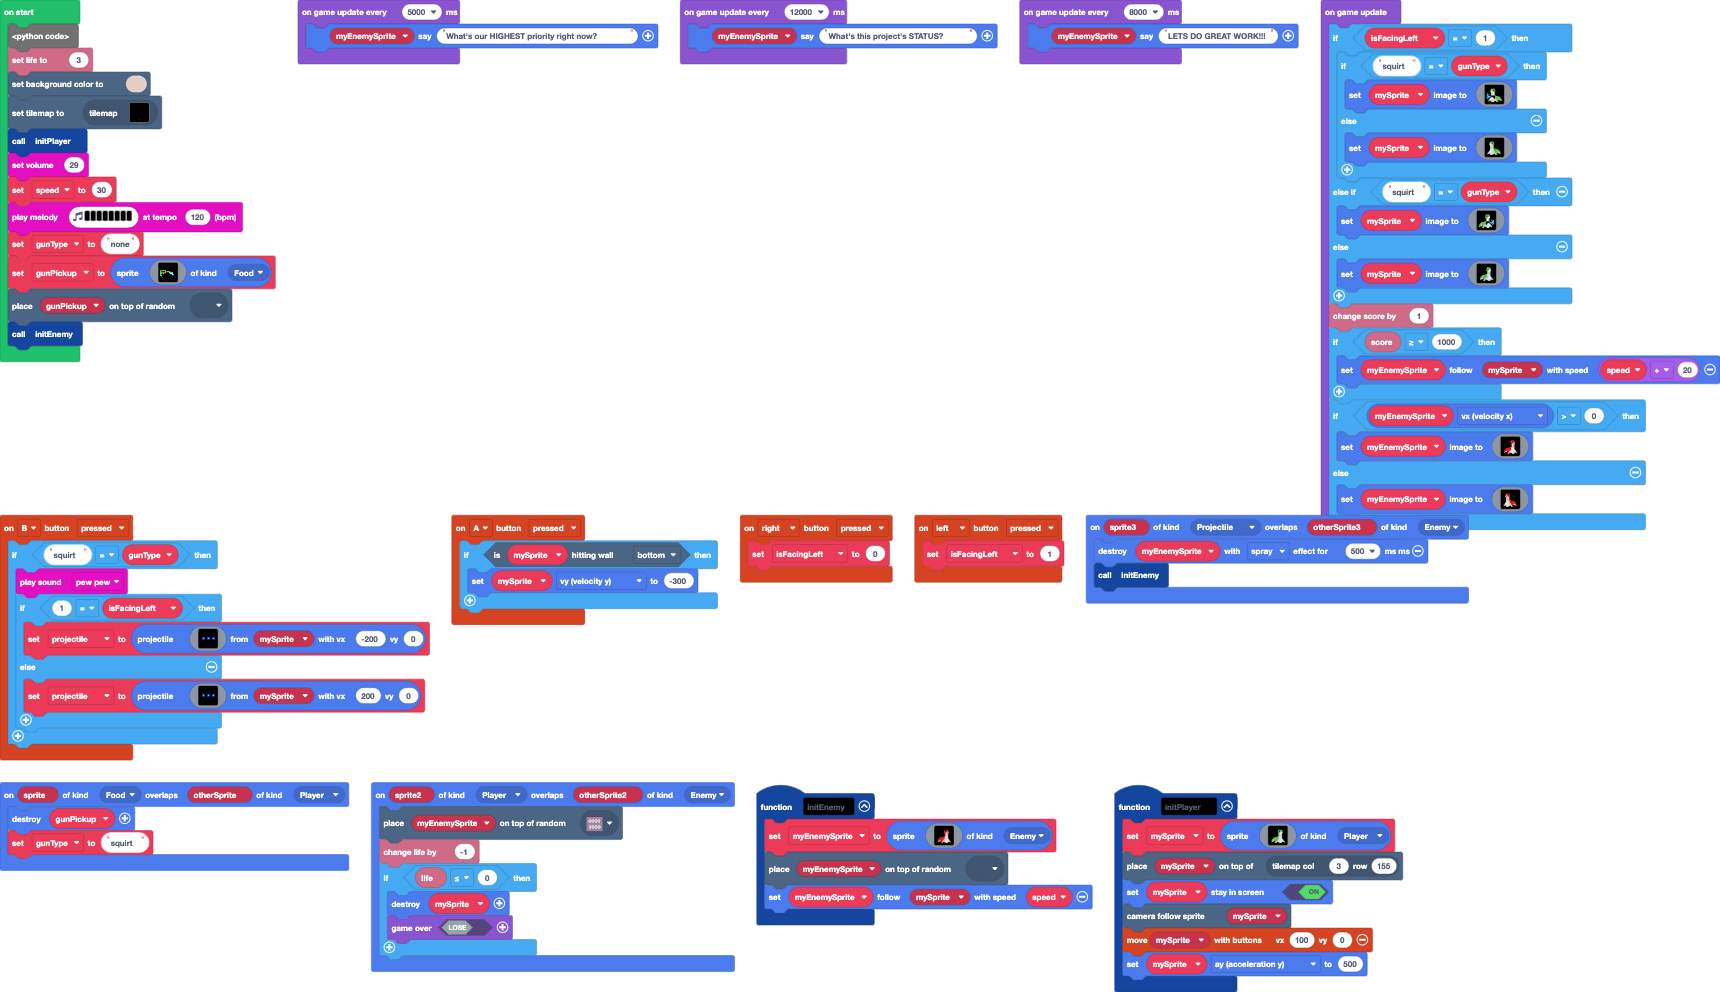
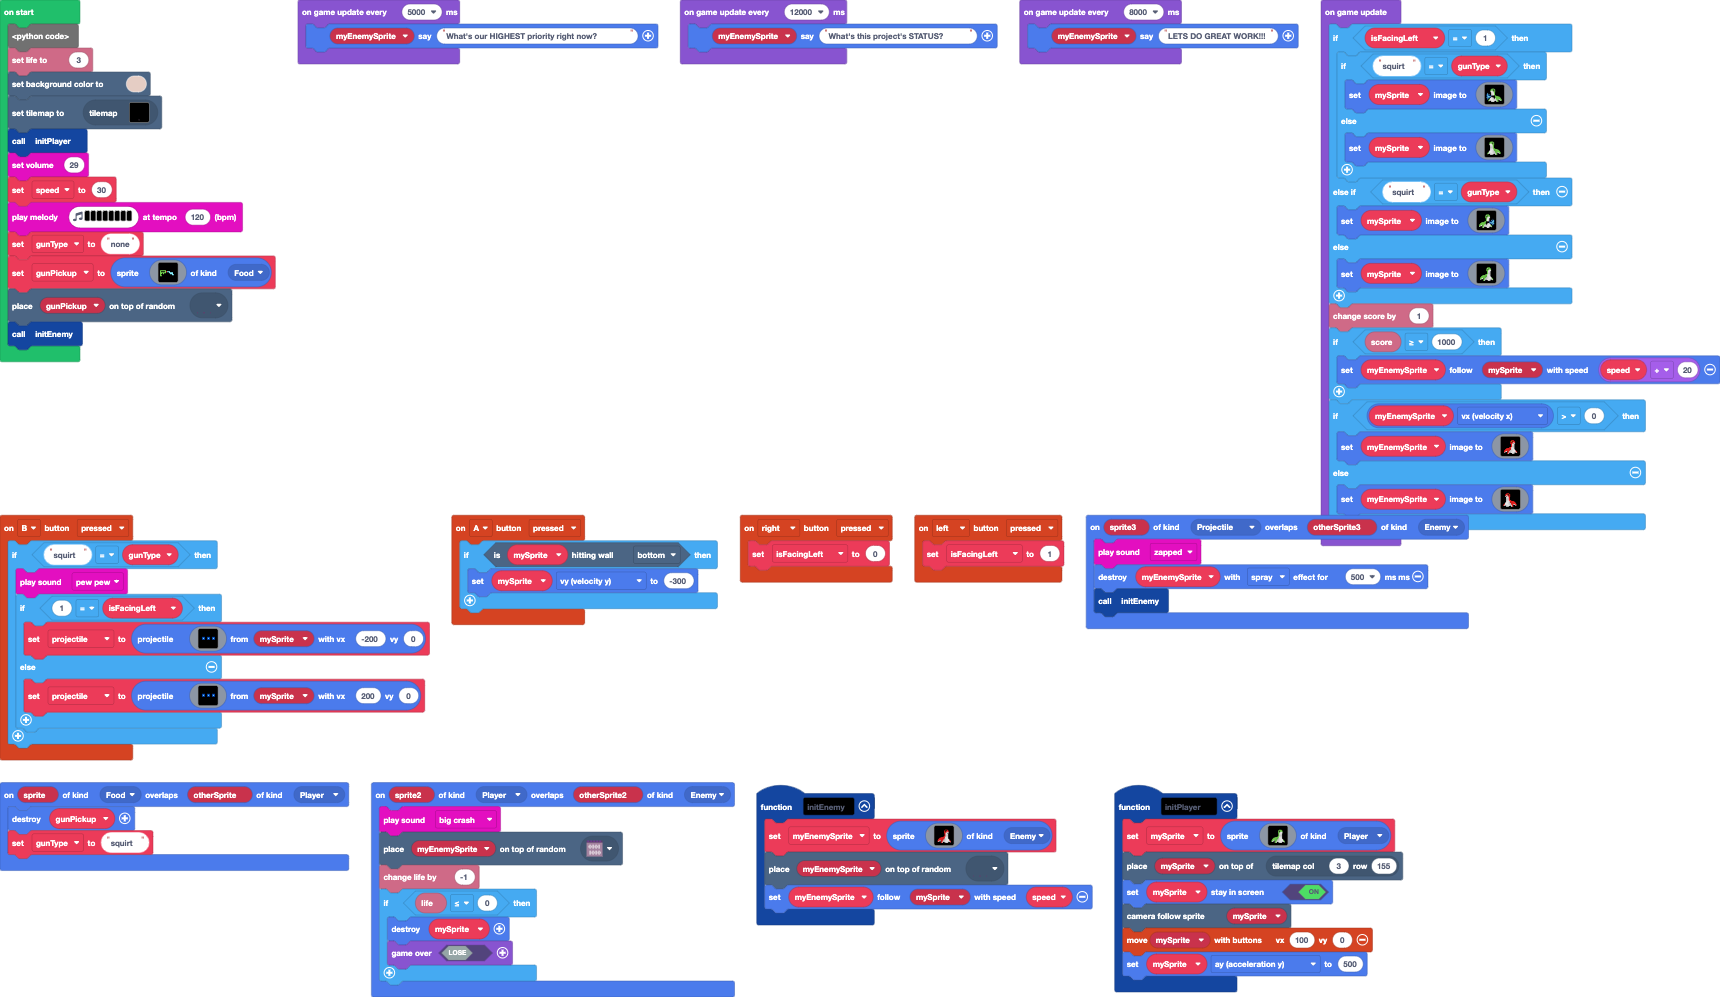
Update main.blocks, main.ts, tilemap.g.jres, tilemap.g.ts

diff --git a/tilemap.g.ts b/tilemap.g.ts
@@ -235,6 +235,25 @@ namespace myTiles {
 . . . . . . . . . . . . . . . . 
 . . . . . . . . . . . . . . . . 
 `, [myTiles.transparency16], TileScale.Sixteen);
+            case "level5":
+            case "level5":return tiles.createTilemap(hex`1000100000000000000000000000000000000000000000000000000000000000000000000000000000000000000000000000000000000000000000000000000000000000000000000000000000000000000000000000000000000000000000000000000000000000000000000000000000000000000000000000000000000000000000000000000000000000000000000000000000000000000000000000000000000000000000000000000000000000000000000000000000000000000000000000000000000000000000000000000000000000000000000000000000000000000000000000000000000000000000000000000000000000000000000000000000000000`, img`
+. . . . . . . . . . . . . . . . 
+. . . . . . . . . . . . . . . . 
+. . . . . . . . . . . . . . . . 
+. . . . . . . . . . . . . . . . 
+. . . . . . . . . . . . . . . . 
+. . . . . . . . . . . . . . . . 
+. . . . . . . . . . . . . . . . 
+. . . . . . . . . . . . . . . . 
+. . . . . . . . . . . . . . . . 
+. . . . . . . . . . . . . . . . 
+. . . . . . . . . . . . . . . . 
+. . . . . . . . . . . . . . . . 
+. . . . . . . . . . . . . . . . 
+. . . . . . . . . . . . . . . . 
+. . . . . . . . . . . . . . . . 
+. . . . . . . . . . . . . . . . 
+`, [myTiles.transparency16], TileScale.Sixteen);
         }
         return null;
     })

diff --git a/main.ts b/main.ts
@@ -30,6 +30,7 @@ function initPlayer () {
     mySprite.ay = 500
 }
 sprites.onOverlap(SpriteKind.Player, SpriteKind.Enemy, function (sprite2, otherSprite2) {
+    music.bigCrash.play()
     tiles.placeOnRandomTile(myEnemySprite, assets.tile`binaryMid`)
     info.changeLifeBy(-1)
     if (info.life() <= 0) {
@@ -45,6 +46,7 @@ controller.right.onEvent(ControllerButtonEvent.Pressed, function () {
     isFacingLeft = 0
 })
 sprites.onOverlap(SpriteKind.Projectile, SpriteKind.Enemy, function (sprite3, otherSprite3) {
+    music.zapped.play()
     myEnemySprite.destroy(effects.spray, 500)
     initEnemy()
 })
